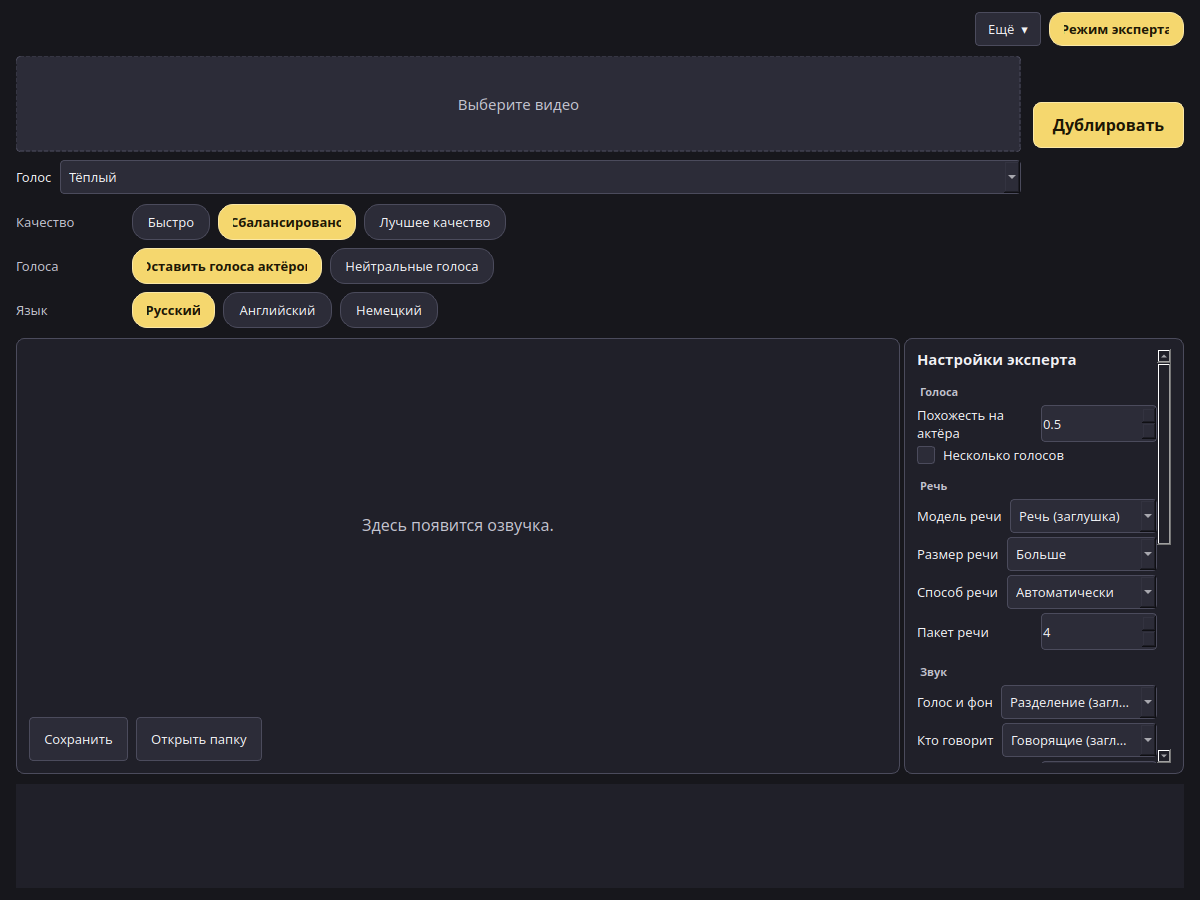
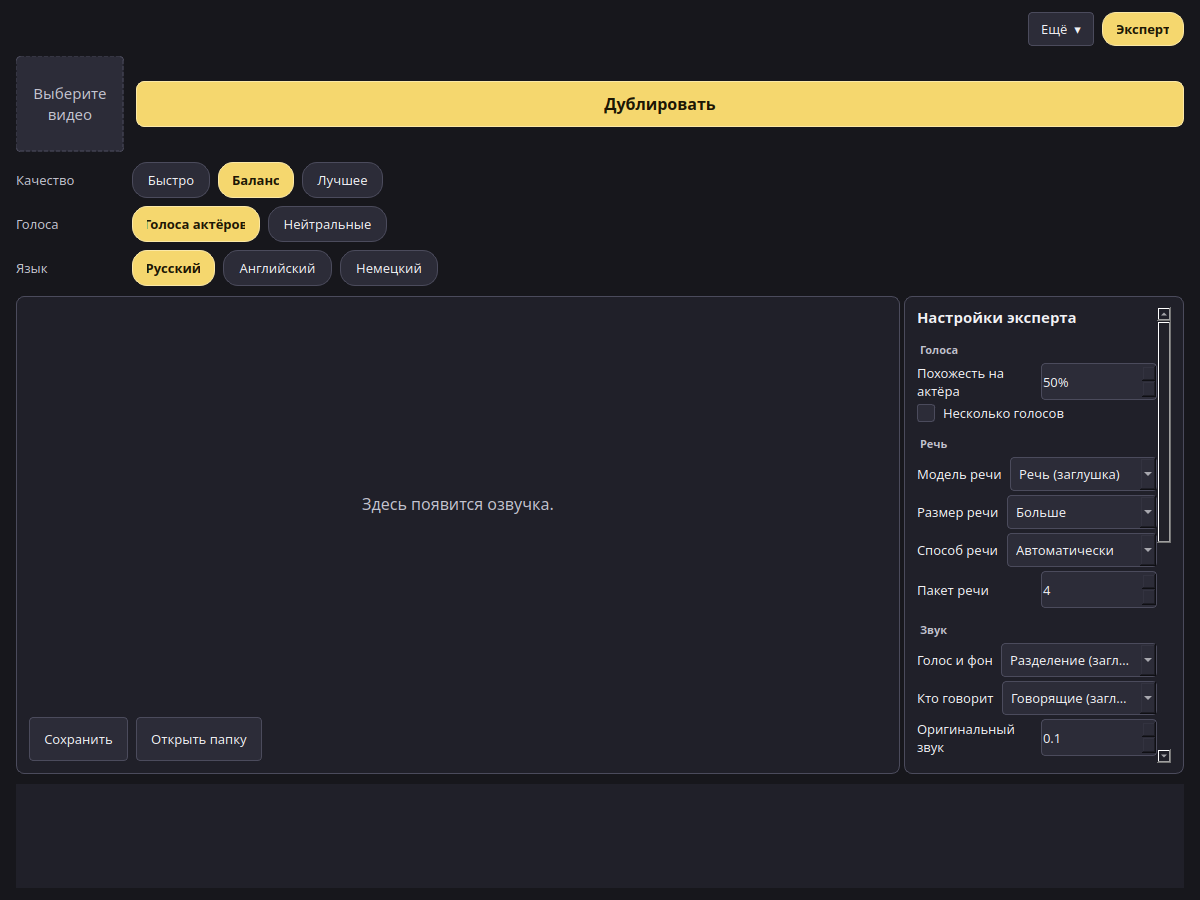
Fit Russian chips and show likeness as a percent.
The shared shell clips bold chip text, so the Russian labels are shorter and the expert toggle says Эксперт. The audiobook narrator row is hidden. Expert likeness reads 50% and the project still stores 0 to 1.

diff --git a/tests/test_shell_window.py b/tests/test_shell_window.py
@@ -3,7 +3,7 @@ from __future__ import annotations
 
 from pathlib import Path
 
-from PySide6.QtWidgets import QApplication, QPushButton, QWidget
+from PySide6.QtWidgets import QApplication, QPushButton, QSpinBox, QWidget
 
 from dubber import i18n
 from dubber.ui.shell_window import ShellWindow
@@ -30,15 +30,17 @@ def test_simple_screen_dubs_in_plain_words_and_expert_keeps_values(tmp_path, mon
     panel = window.view.root.findChild(QWidget, "expertPanel")
     assert button is not None and button.text() == "Dub"
     assert panel is not None and not panel.isVisible()
-    assert window.shell.get("dub.actor_weight") == 0.5
+    assert window.shell.get("dub.actor_weight") == 50
     window.shell.choose("quality", "fast")
     window.expert.set_enabled(True)
     QApplication.processEvents()
     assert panel.isVisible()
+    likeness = window.view.root.findChild(QSpinBox, "dub.actor_weight")
+    assert likeness is not None and likeness.value() == 50 and likeness.text() == "50%"
     assert window.shell.get("dub.tts_size") == "small"
     window.expert.set_enabled(False)
     assert window.shell.get("dub.tts_size") == "small"
-    assert window.shell.get("dub.actor_weight") == 0.5
+    assert window.shell.get("dub.actor_weight") == 50
     window.close()
 
 
@@ -47,7 +49,10 @@ def test_audio_surface_keeps_the_film_path(tmp_path, monkeypatch):
     window.show()
     QApplication.processEvents()
     assert window.view._surface == surface_for("movie-dubber")
-    assert window.view.root.findChild(QWidget, "voicePicker") is not None
+    voice = window.view.root.findChild(QWidget, "voicePicker")
+    label = window.view.root.findChild(QWidget, "voiceLabel")
+    assert voice is not None and label is not None
+    assert not voice.isVisible() and not label.isVisible()
     assert window.view.root.findChild(QWidget, "player") is not None
     assert window.view.root.findChild(QPushButton, "playResult") is None
     film = tmp_path / "clip.mkv"
@@ -63,6 +68,16 @@ def test_russian_catalog_names_the_dub_button(tmp_path, monkeypatch):
     window = _window(tmp_path, monkeypatch, "ru")
     button = window.view.root.findChild(QPushButton, "generate")
     assert button is not None and button.text() == "Дублировать"
+    balanced = window.view.root.findChild(QPushButton, "chip-quality-balanced")
+    keep = window.view.root.findChild(QPushButton, "chip-voices-keep")
+    neutral = window.view.root.findChild(QPushButton, "chip-voices-neutral")
+    best = window.view.root.findChild(QPushButton, "chip-quality-best")
+    expert = window.view.root.findChild(QPushButton, "expertToggle")
+    assert balanced is not None and balanced.text() == "Баланс"
+    assert best is not None and best.text() == "Лучшее"
+    assert keep is not None and keep.text() == "Голоса актёров"
+    assert neutral is not None and neutral.text() == "Нейтральные"
+    assert expert is not None and expert.text() == "Эксперт"
     drop = window.view.root.findChild(QWidget, "fileDrop")
     assert drop is not None and "видео" in drop.text().lower()
     window.close()

diff --git a/dubber/ui/shell_window.py b/dubber/ui/shell_window.py
@@ -14,7 +14,7 @@ from typing import Any, Callable, cast
 
 from PySide6.QtCore import QEvent, QObject, QUrl
 from PySide6.QtGui import QDesktopServices, QDropEvent
-from PySide6.QtWidgets import QFileDialog, QMessageBox, QPushButton, QVBoxLayout, QWidget
+from PySide6.QtWidgets import QFileDialog, QMessageBox, QPushButton, QSpinBox, QVBoxLayout, QWidget
 
 from dubber import i18n, paths, settings
 from dubber.appinfo import APP_DISPLAY_NAME
@@ -137,9 +137,10 @@ class ShellWindow(QWidget):
         body.setContentsMargins(0, 0, 0, 0)
         body.addWidget(self.view.root)
         self._install_video_pick()
+        self._hide_narrator_voice()
         self._add_menu()
-        self._stop_expert = self.expert.subscribe(self.view.set_expert)
-        self.view.set_expert(self.expert.enabled())
+        self._stop_expert = self.expert.subscribe(self._set_expert)
+        self._set_expert(self.expert.enabled())
         self._apply_saved_language()
         if autorun:
             self.open_diagnostics(True)
@@ -410,11 +411,42 @@ class ShellWindow(QWidget):
         if action == "show_folder":
             self._reveal(path)
 
+    def _set_expert(self, enabled: bool) -> None:
+        """Open or close the side panel, then mark likeness as a percent.
+
+        Args:
+            enabled: True shows the expert settings beside the result.
+        """
+        self.view.set_expert(enabled)
+        self._show_likeness_percent()
+
+    def _hide_narrator_voice(self) -> None:
+        """Hide the audiobook narrator row on the audio surface.
+
+        The shell always adds a Warm, Clear, or Low combo for this surface
+        and has no switch to leave it out. Film voices are the Voices chips,
+        the Characters step, and the Expert likeness field.
+        """
+        for name in ("voiceLabel", "voicePicker"):
+            widget = self.view.root.findChild(QWidget, name)
+            if widget is not None:
+                widget.hide()
+
+    def _show_likeness_percent(self) -> None:
+        """Draw the likeness number with a percent sign.
+
+        The shell integer field has no unit. The project still stores the
+        share from 0 to 1.
+        """
+        spin = self.view.root.findChild(QSpinBox, "dub.actor_weight")
+        if spin is not None:
+            spin.setSuffix("%")
+
     def _restore_source(self) -> Path | None:
         """Put the chosen film back into the prompt.
 
-        Dub appends the shell voice label to the prompt. That combo is a
-        placeholder on the audio surface. The film path stays on this window.
+        Dub appends the shell voice label to the prompt even when that combo
+        is hidden. The film path stays on this window.
 
         Returns:
             The film, or None when none is chosen.

diff --git a/dubber/ui/shell_state.py b/dubber/ui/shell_state.py
@@ -185,12 +185,12 @@ def dub_settings() -> Settings:
                 "dub.actor_weight",
                 "setting.dub.actor_weight",
                 "setting.dub.actor_weight.help",
-                SettingType.FLOAT,
-                0.5,
+                SettingType.INT,
+                50,
                 expert=True,
                 group="voices",
-                minimum=0.0,
-                maximum=1.0,
+                minimum=0,
+                maximum=100,
             ),
             SettingSpec(
                 "dub.multi_voice",
@@ -417,8 +417,8 @@ def dub_presets(settings: Settings | None = None) -> PresetFile:
         "voices",
         "shell.voice",
         (
-            _option("keep", "shell.voice.keep", _voice("actor", 0.5, False)),
-            _option("neutral", "shell.voice.neutral", _voice("neutral", 0.0, False)),
+            _option("keep", "shell.voice.keep", _voice("actor", 50, False)),
+            _option("neutral", "shell.voice.neutral", _voice("neutral", 0, False)),
         ),
         "keep",
     )
@@ -489,13 +489,15 @@ def apply_project(layout: SimpleLayout) -> dict[str, object]:
     """Return project settings written from the live state.
 
     ``mt_context`` is stored on the project. The translation engine does not
-    read it yet.
+    read it yet. Actor likeness is a percent on the expert panel because the
+    shell has no unit on a number. The project still stores that share from
+    0 to 1.
 
     Args:
         layout: Screen state after presets and any hand edits.
     """
     style = str(layout.get("dub.voice_style"))
-    weight = _as_float(layout.get("dub.actor_weight"))
+    weight = _as_int(layout.get("dub.actor_weight")) / 100.0
     return {
         "target_lang": str(layout.get("dub.target_lang")),
         "multi_voice": bool(layout.get("dub.multi_voice")),
@@ -584,8 +586,8 @@ def _quality(
     return tuple((key, values[key]) for key in _QUALITY_ORDER)
 
 
-def _voice(style: str, weight: float, multi: bool) -> tuple[tuple[str, str | float | bool], ...]:
-    values: dict[str, str | float | bool] = {
+def _voice(style: str, weight: int, multi: bool) -> tuple[tuple[str, str | int | bool], ...]:
+    values: dict[str, str | int | bool] = {
         "dub.voice_style": style,
         "dub.actor_weight": weight,
         "dub.multi_voice": multi,

diff --git a/tests/test_shell_state.py b/tests/test_shell_state.py
@@ -46,7 +46,7 @@ def test_balanced_is_the_default_and_fast_writes_concrete_values(tmp_path, monke
     layout = _layout(tmp_path, monkeypatch)
     status = layout.preset_status("quality")
     assert status is not None and status.kind is PresetMatch.EXACT and status.option_id == "balanced"
-    assert layout.get("dub.actor_weight") == 0.5
+    assert layout.get("dub.actor_weight") == 50
     assert layout.get("dub.voice_style") == "actor"
     before = {key: layout.get(key) for key in ("dub.tts_size", "dub.separation", "dub.tts_batch", "dub.mt_context")}
     layout.choose("quality", "fast")
@@ -56,7 +56,7 @@ def test_balanced_is_the_default_and_fast_writes_concrete_values(tmp_path, monke
     assert layout.get("dub.mt_context") == 0
     assert layout.get("dub.tts_size") != before["dub.tts_size"]
     assert layout.preset_status("quality").kind is PresetMatch.EXACT
-    assert layout.get("dub.actor_weight") == 0.5
+    assert layout.get("dub.actor_weight") == 50
 
 
 def test_close_edit_marks_changes_and_reset_restores_the_preset(tmp_path, monkeypatch):
@@ -70,7 +70,7 @@ def test_close_edit_marks_changes_and_reset_restores_the_preset(tmp_path, monkey
     layout.reset_group("quality")
     assert layout.get("dub.tts_batch") == original
     assert layout.preset_status("quality").kind is PresetMatch.EXACT
-    assert layout.get("dub.actor_weight") == 0.5
+    assert layout.get("dub.actor_weight") == 50
 
 
 def test_far_edit_marks_custom_and_reset_restores_the_stored_preset(tmp_path, monkeypatch):
@@ -94,7 +94,7 @@ def test_expert_mode_switch_keeps_values(tmp_path, monkeypatch):
     layout = _layout(tmp_path, monkeypatch)
     layout.choose("quality", "best")
     layout.choose("voices", "neutral")
-    layout.set_value("dub.actor_weight", 0.8)
+    layout.set_value("dub.actor_weight", 80)
     snap = layout.snapshot()
     mode = ExpertMode()
     assert mode.enabled() is False
@@ -102,7 +102,7 @@ def test_expert_mode_switch_keeps_values(tmp_path, monkeypatch):
     mode.set_enabled(False)
     assert mode.enabled() is False
     assert layout.snapshot() == snap
-    assert layout.get("dub.actor_weight") == 0.8
+    assert layout.get("dub.actor_weight") == 80
     assert layout.preset_status("voices").kind is PresetMatch.MODIFIED
 
 

diff --git a/docs/ui/FEATURE-MAP.md b/docs/ui/FEATURE-MAP.md
@@ -12,7 +12,8 @@ The wizard steps are Film, Characters, Lines, and Dub. The Dub step is the playe
 | Dub language: Russian, English, or German | Language chips on the main screen, the Expert language field, and the Film step combo. One language per film, as before. |
 | Quality: Fast, Balanced, Best quality | Quality chips. Expert shows the concrete speech, separation, and batch values. |
 | Voices: Keep actor voices or Neutral voices | Voices chips. Expert actor-likeness and multi-voice fields share that state. |
-| Actor likeness, default 50% | Expert field Actor likeness. Film step slider when one voice is used. Each character card has its own slider. |
+| Actor likeness, default 50% | Expert field shows 50%. The project still stores 0 to 1. Film step slider when one voice is used. Each character card has its own slider. |
+| Audiobook narrator voice (Warm, Clear, Low) | Hidden. That row belongs to the audio surface and is not a film voice. Character voices stay on the Characters step and in Expert. |
 | Different voices for different characters | Expert multi-voice field and the Film step checkbox. |
 | Profanity: as in the original, or soften | Expert field and the Film step combo. Softened lines stay highlighted on the Lines step. |
 | Original voices under the dub | Expert mix field, the Film step slider, and the Dub step slider. |
